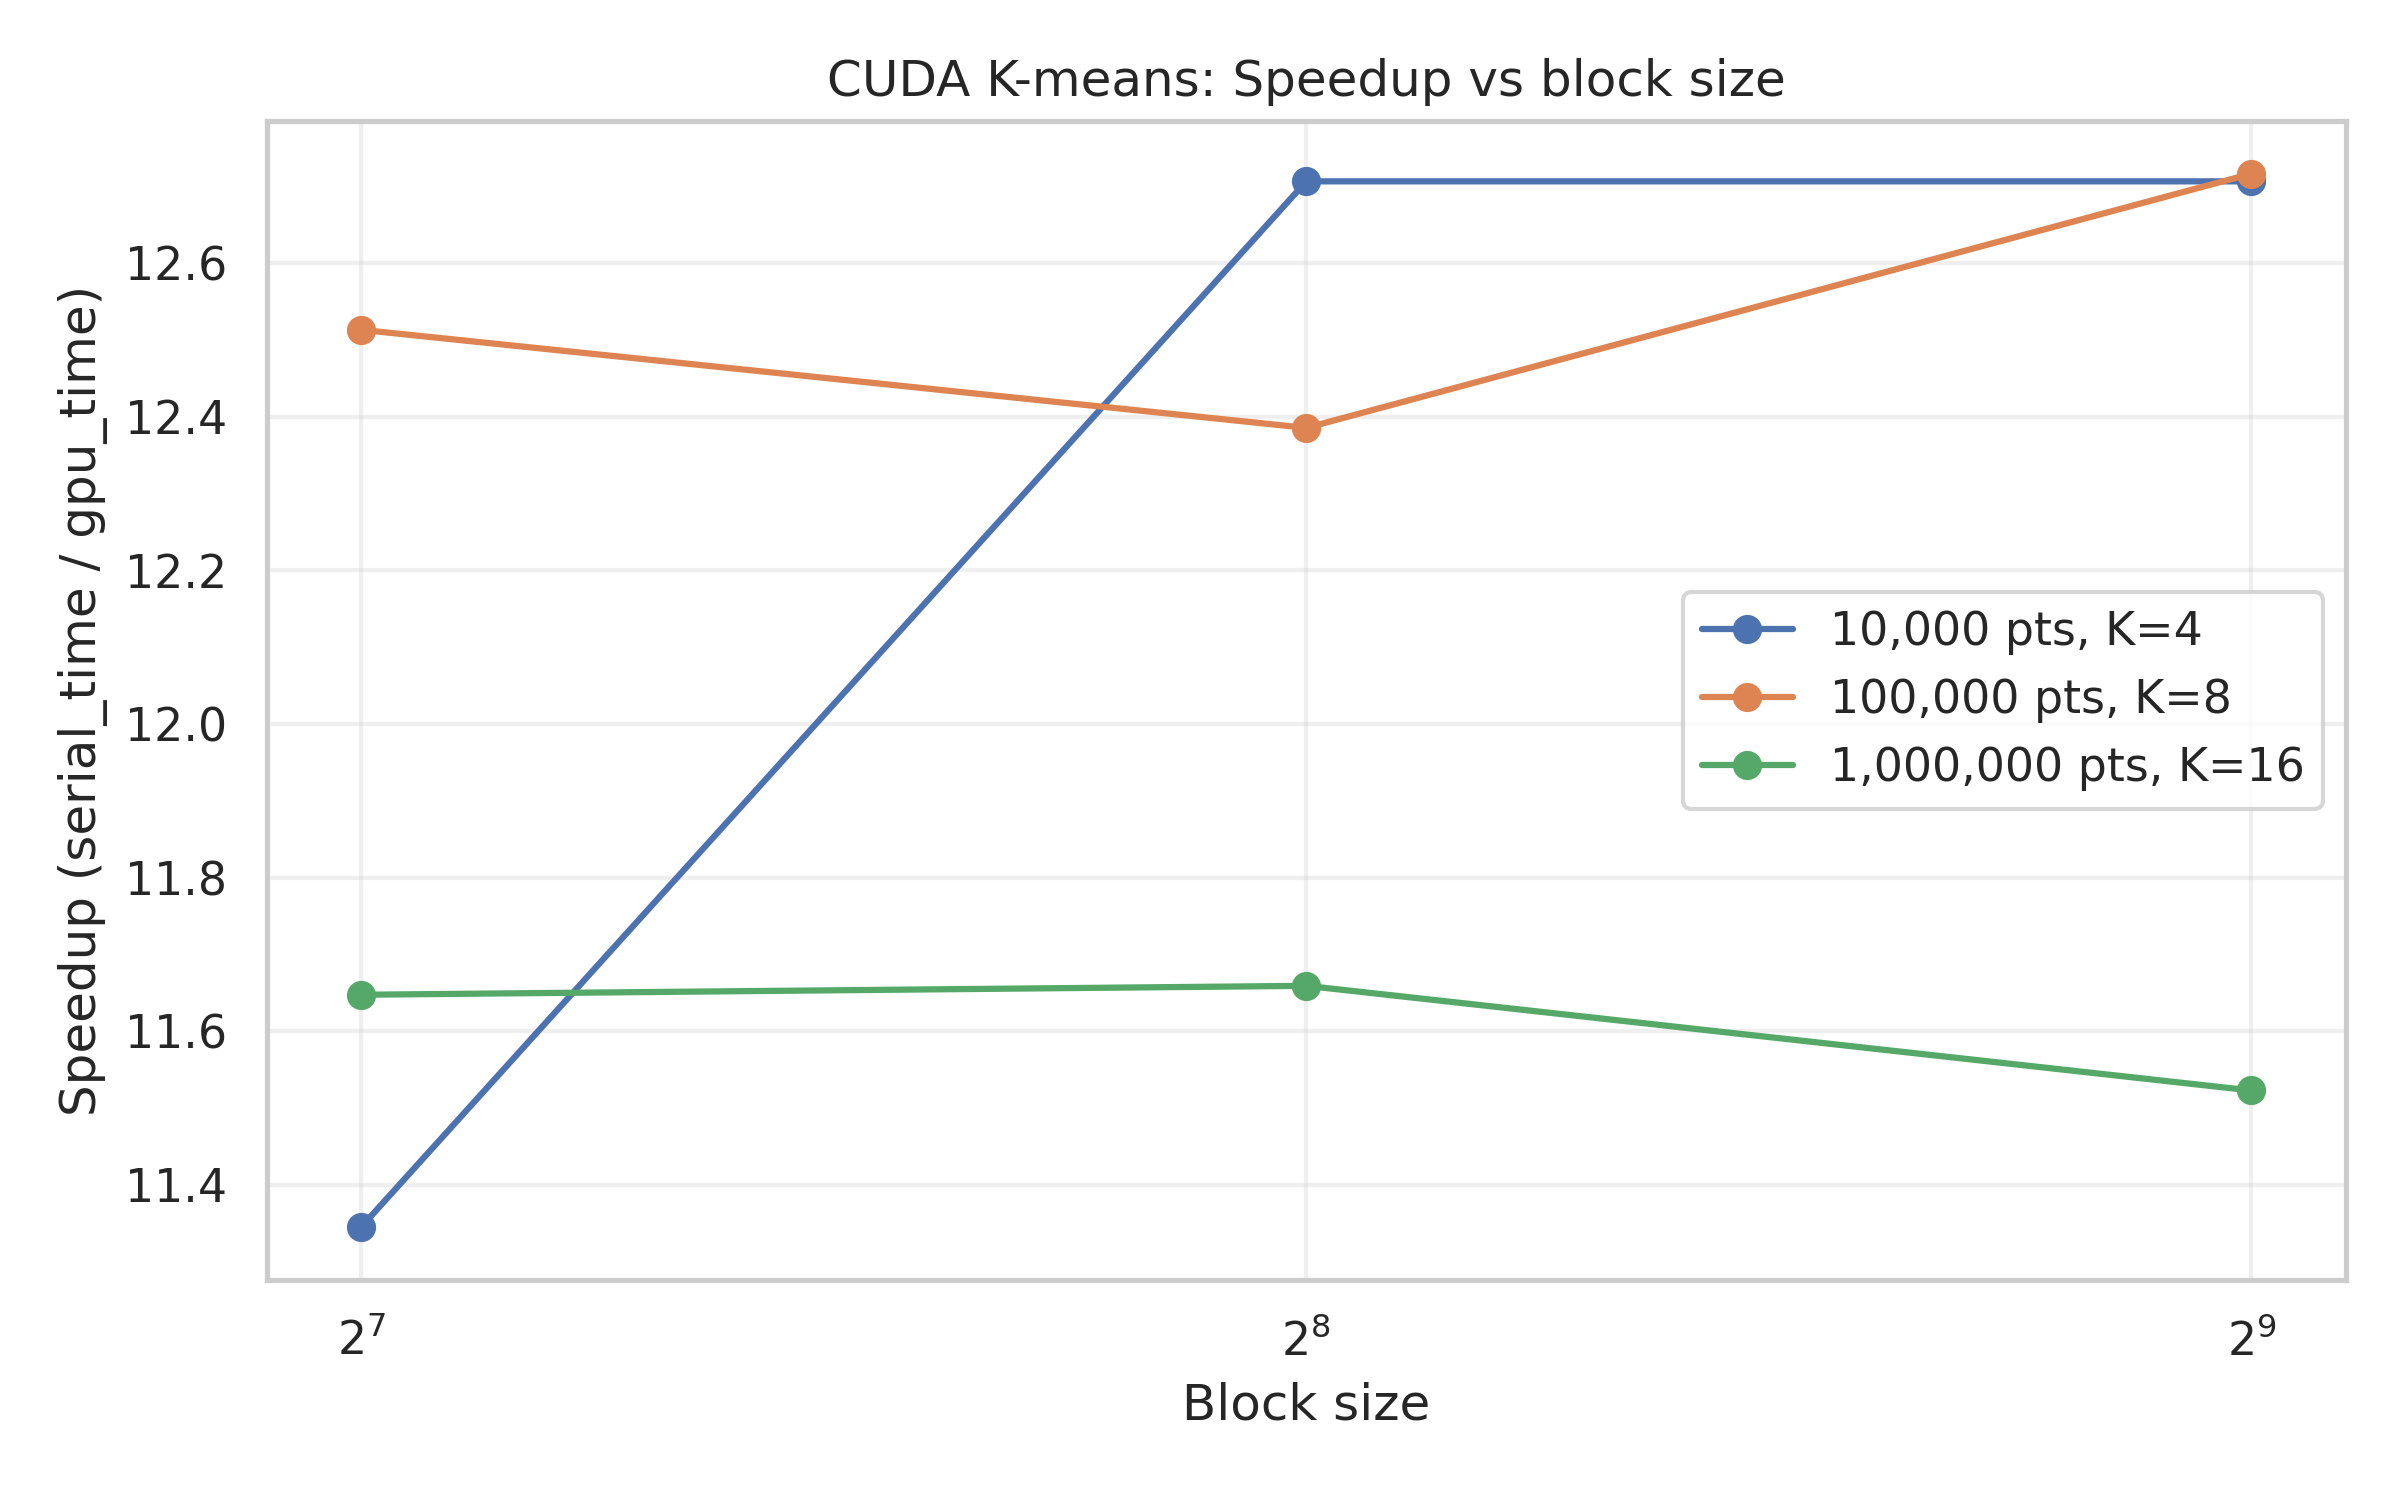
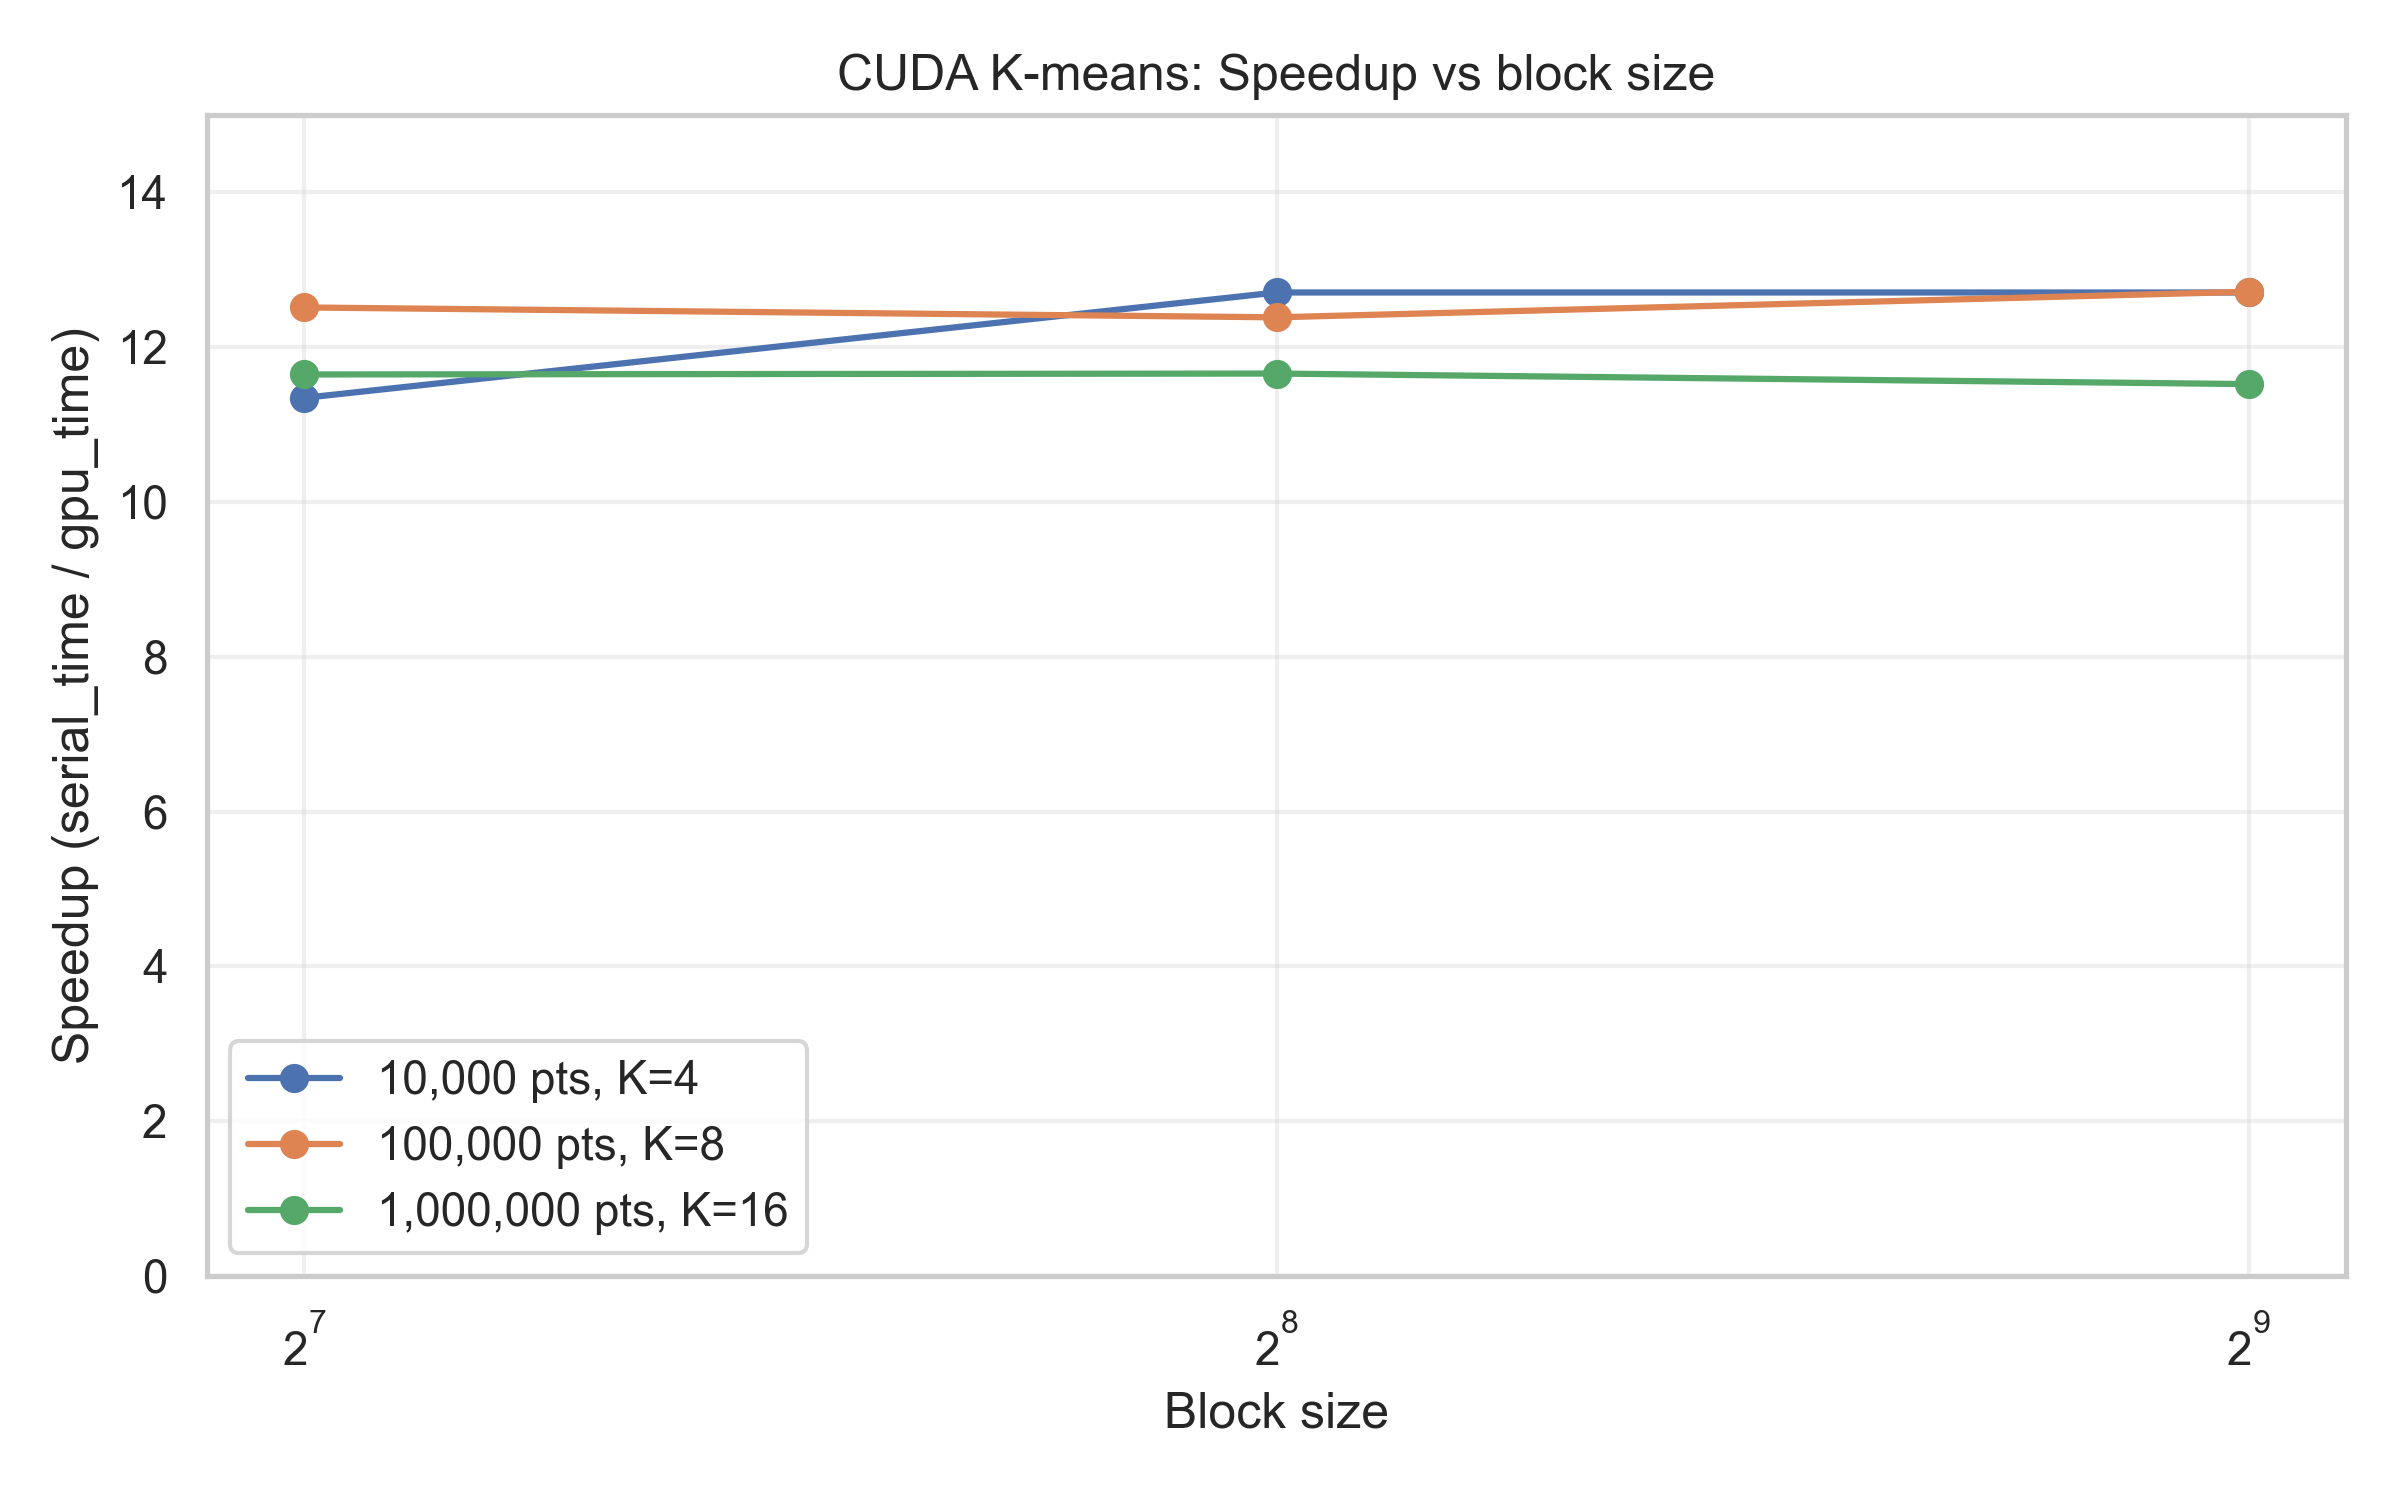
generates multiple analysis and plots

diff --git a/results/plot_results_cuda.py b/results/plot_results_cuda.py
@@ -49,6 +49,7 @@ def plot_speedup_by_block(df, out='results/figures/speedup_cuda.png'):
     plt.ylabel('Speedup (serial_time / gpu_time)')
     plt.title('CUDA K-means: Speedup vs block size')
     plt.legend()
+    plt.ylim(bottom=0, top=15)
     plt.xscale('log', base=2)
     plt.grid(True, alpha=0.3)
     plt.tight_layout()
@@ -69,14 +70,210 @@ def print_summary(df):
         else:
             print(f"{n:,} pts K={k}: only serial runs")
 
-if __name__ == "__main__":
-    path = 'results/results_cuda.csv'
-    if not Path(path).exists():
-        print(f"File {path} not found")
-    else:
-        df = load_and_prepare(path)
-        df = calculate_speedup(df)
-        df.to_csv('results/results_cuda_with_speedup.csv', index=False)
-        print_summary(df)
-        plot_speedup_by_block(df)
+def plot_comparative_results():
+    import matplotlib.pyplot as plt
+    import numpy as np
 
+    # --- 1. Dados extraídos dos seus logs (usando threadsPerBlock=256) ---
+
+    # Rótulos para o eixo X
+    labels = ['10k pts, K=4', '100k pts, K=8', '1M pts, K=16']
+
+    # Tempos de transferência Host-para-Device (H2D)
+    h2d_times = np.array([0.0, 0.0, 0.0])
+
+    # Tempos de execução do Kernel na GPU
+    kernel_times = np.array([0.1, 0.2, 1.4])
+
+    # Tempos de transferência Device-para-Host (D2H)
+    d2h_times = np.array([0.1, 0.8, 5.7])
+
+    # Calcula os tempos totais para adicionar rótulos no topo
+    totals = h2d_times + kernel_times + d2h_times
+
+    # Largura das barras
+    width = 0.5
+
+    # --- 2. Criação do Gráfico Empilhado ---
+    fig, ax = plt.subplots(figsize=(10, 7))
+
+    # A. A primeira barra (base) é o H2D
+    ax.bar(labels, h2d_times, width, label='Tempo H2D (ms)', color='#2c7bb6')
+
+    # B. A segunda barra (Kernel) começa onde a H2D terminou
+    ax.bar(labels, kernel_times, width, bottom=h2d_times,
+        label='Tempo Kernel (ms)', color='#abd9e9')
+
+    # C. A terceira barra (D2H) começa onde a Kernel terminou
+    ax.bar(labels, d2h_times, width, bottom=h2d_times + kernel_times,
+        label='Tempo D2H (ms)', color='#fdae61')
+
+    # --- 3. Formatação e Rótulos ---
+
+    # Títulos e rótulos dos eixos
+    ax.set_ylabel('Tempo Total (ms)')
+    ax.set_title('Breakdown do Tempo K-means (GPU) por DBK (threadPerBlock=256)', fontsize=16)
+
+    # Adiciona a legenda
+    ax.legend(loc='upper left')
+
+    # Adiciona grade para facilitar a leitura
+    ax.yaxis.grid(True, linestyle='--', alpha=0.7)
+
+    # Define o limite do eixo Y um pouco mais alto que o valor máximo
+    ax.set_ylim(0, np.max(totals) * 1.15)
+
+    # Adiciona rótulos de texto com o valor total no topo de cada barra
+    for i, total in enumerate(totals):
+        if total > 0: # Só adiciona rótulo se o tempo for maior que 0
+            ax.text(i, total + (np.max(totals) * 0.01), # Posição Y (um pouco acima da barra)
+                    f'{total:.1f} ms',                 # Texto do rótulo
+                    ha='center',                       # Alinhamento horizontal
+                    fontweight='bold')
+
+    # Melhora o layout para evitar cortes
+    plt.tight_layout()
+
+    # --- 4. Salvar e Mostrar o Gráfico ---
+    plt.savefig('results/figures/kmeans_breakdown_tempo_gpu.png')
+    plt.show()
+
+
+def format_n(n):
+        if n >= 1000000:
+            return f"{n // 1000000}M"
+        if n >= 1000:
+            return f"{n // 1000}k"
+        return str(n)
+
+def plot_comparative_results_speedup():
+    import pandas as pd
+    import matplotlib.pyplot as plt
+    import numpy as np
+
+    # --- 1. Carregar e Preparar os Dados ---
+
+    try:
+        # Carrega os dados de OpenMP e Serial
+        df_omp_serial = pd.read_csv('results/results_with_speedup.csv')
+        
+        # Carrega os dados de CUDA
+        df_cuda = pd.read_csv('results/results_cuda_with_speedup.csv')
+    except FileNotFoundError as e:
+        print(f"Erro: Não foi possível encontrar o arquivo {e.filename}.")
+        print("Certifique-se que os arquivos 'results_with_speedup.csv' e 'results_cuda_with_speedup.csv' estão no mesmo diretório.")
+        exit()
+
+    # --- 2. CORREÇÃO: Criar a coluna 'Implementation' ---
+
+    # Em df_omp_serial, use 'serial_omp' para definir 'Serial' ou 'OpenMP'
+    df_omp_serial['Implementation'] = np.where(df_omp_serial['serial_omp'] == 1, 'Serial', 'OpenMP') # <<< NOVO
+
+    # Em df_cuda, todas as linhas são 'CUDA'
+    df_cuda['Implementation'] = 'CUDA' # <<< NOVO
+
+    # --- 3. CORREÇÃO: Padronizar nomes das colunas ---
+    # Renomeia 'n_pontos' -> 'N' e 'n_centroids' -> 'K' para ambos os DataFrames
+    df_omp_serial.rename(columns={'n_pontos': 'N', 'n_centroids': 'K'}, inplace=True) # <<< NOVO
+    df_cuda.rename(columns={'n_pontos': 'N', 'n_centroids': 'K'}, inplace=True)       # <<< NOVO
+
+
+    # --- 4. Juntar e Filtrar ---
+
+    # Agora podemos juntar os DataFrames
+    df_all = pd.concat([df_omp_serial, df_cuda], ignore_index=True)
+
+    # Filtra apenas as implementações principais que queremos comparar
+    implementations_to_plot = ['Serial', 'OpenMP', 'CUDA']
+    df_plot = df_all[df_all['Implementation'].isin(implementations_to_plot)]
+
+    # --- 5. Criar Rótulos para o Eixo X ---
+
+    # Função para formatar N de forma legível (ex: 10000 -> 10k, 1000000 -> 1M)
+    def format_n(n):
+        if n >= 1000000:
+            return f"{n // 1000000}M"
+        if n >= 1000:
+            return f"{n // 1000}k"
+        return str(n)
+
+    # Cria uma coluna 'Config' para usar como rótulo no eixo X
+    # Adiciona .copy() para evitar o SettingWithCopyWarning
+    df_plot = df_plot.copy()
+    df_plot['Config'] = df_plot['N'].apply(format_n) + ' pts, K=' + df_plot['K'].astype(str)
+
+    # Garante que os dados estejam ordenados por N (tamanho do problema)
+    df_plot = df_plot.sort_values(by='N')
+
+    # --- 6. Configuração do Gráfico de Barras Agrupado ---
+
+    # Pega os rótulos únicos de configuração (ex: "10k...", "100k...", "1M...")
+    configs = df_plot['Config'].unique()
+    x_indexes = np.arange(len(configs))  # Posições no eixo X (0, 1, 2)
+
+    # Define a largura de cada barra individual
+    bar_width = 0.25
+    n_impls = len(implementations_to_plot)
+
+    # Cores para consistência
+    colors = {
+        'Serial': '#d73027', # Vermelho
+        'OpenMP': '#fee090', # Amarelo/Laranja
+        'CUDA': '#4575b4'    # Azul
+    }
+
+    fig, ax = plt.subplots(figsize=(12, 7))
+
+    # --- 7. Plotar as Barras ---
+
+    # Itera sobre cada implementação para plotar suas barras em grupo
+    for i, impl in enumerate(implementations_to_plot):
+        # Calcula o "offset" da barra para que fiquem lado a lado
+        offset = (i - n_impls / 2 + 0.5) * bar_width
+        positions = x_indexes + offset
+        
+        # Pega os dados de speedup para a implementação atual
+        # Precisamos agrupar e pegar a média caso haja múltiplas entradas (ex: CUDA com 128, 256, 512)
+        speedups = df_plot[df_plot['Implementation'] == impl].groupby('Config', sort=False)['Speedup'].mean().values
+        
+        # Plota a barra
+        ax.bar(positions, speedups, bar_width, label=impl, color=colors.get(impl))
+
+    # --- 8. Formatação Final do Gráfico ---
+
+    # Títulos e Rótulos
+    ax.set_ylabel('Speedup (Base: Tempo Serial)')
+    ax.set_title('Comparativo de Speedup: Serial vs. OpenMP vs. CUDA', fontsize=16)
+
+    # Configura os rótulos do eixo X para ficarem no centro do grupo de barras
+    ax.set_xticks(x_indexes)
+    ax.set_xticklabels(configs)
+
+    # Adiciona uma linha horizontal em y=1.0 para marcar a base (Serial)
+    ax.axhline(y=1.0, color='gray', linestyle='--', linewidth=1, label='Baseline Serial (Speedup=1)')
+
+    # Adiciona grade e legenda
+    ax.yaxis.grid(True, linestyle='--', alpha=0.7)
+    ax.legend(title="Implementação")
+
+    # Otimiza o layout e salva a imagem
+    plt.tight_layout()
+    plt.savefig('comparativo_speedup_total.png')
+
+    print("Gráfico 'comparativo_speedup_total.png' gerado com sucesso!")
+
+    # Mostra o gráfico
+    plt.show()
+
+if __name__ == "__main__":
+    # path = 'results/results_cuda.csv'
+    # if not Path(path).exists():
+    #     print(f"File {path} not found")
+    # else:
+    #     df = load_and_prepare(path)
+    #     df = calculate_speedup(df)
+    #     df.to_csv('results/results_cuda_with_speedup.csv', index=False)
+    #     print_summary(df)
+    #     plot_speedup_by_block(df)
+
+    plot_comparative_results_speedup()

diff --git a/results/plot_speedup_results.py b/results/plot_speedup_results.py
@@ -1,0 +1,128 @@
+import pandas as pd
+import matplotlib.pyplot as plt
+import numpy as np
+import io # Para ler o CSV a partir de um texto
+
+# --- 1. Dados CSV fornecidos pelo usuário ---
+# Coloquei os dados do CSV que você colou em uma string.
+# Isso evita problemas de 'Arquivo não encontrado'
+csv_data = """n_pontos,n_centroids,iteracoes,tempo,serial_cuda,block_size,speedup
+10000,4,3,8.4,0,128,11.345238095238095
+10000,4,3,7.5,0,256,12.706666666666667
+10000,4,3,7.5,0,512,12.706666666666667
+100000,8,3,1319.6,0,128,12.51333737496211
+100000,8,3,1333.2,0,256,12.385688568856883
+100000,8,3,1298.5,0,512,12.71667308432807
+1000000,16,3,253719.6,0,128,11.647597584104656
+1000000,16,3,253466.8,0,256,11.65921454012912
+1000000,16,3,256464.2,0,512,11.522948622068888
+10000,4,3,95.3,1,1,1.0
+100000,8,3,16512.6,1,1,1.0
+1000000,16,3,2955223.8,1,1,1.0
+10000,4,3,11.7,2,32,8.145299145299145
+100000,8,3,1355.1,2,32,12.185521363736994
+1000000,16,3,275368.1,2,32,10.731903223358117
+"""
+
+# --- 2. Carregar e Transformar os Dados ---
+
+# Ler os dados da string
+try:
+    df = pd.read_csv(io.StringIO(csv_data))
+except Exception as e:
+    print(f"Erro ao ler os dados do CSV: {e}")
+    exit()
+
+# Criar a coluna 'Implementation' baseada na sua codificação
+# 0 = CUDA, 1 = Serial, 2 = OpenMP
+impl_map = {
+    0: 'CUDA',
+    1: 'Serial',
+    2: 'OpenMP (32 th)' # Usei um nome mais descritivo
+}
+df['Implementation'] = df['serial_cuda'].map(impl_map)
+
+# Função para formatar N (10000 -> 10k, 1000000 -> 1M)
+def format_n(n):
+    if n >= 1000000: return f"{n // 1000000}M"
+    if n >= 1000: return f"{n // 1000}k"
+    return str(n)
+
+# Criar a coluna 'Config' para o eixo X
+df['Config'] = df['n_pontos'].apply(format_n) + ' pts, K=' + df['n_centroids'].astype(str)
+
+# --- 3. Filtrar os Dados para Plotagem ---
+
+# Queremos:
+# 1. Todas as entradas 'Serial'
+is_serial = (df['Implementation'] == 'Serial')
+
+# 2. Todas as entradas 'OpenMP (32 th)'
+is_omp = (df['Implementation'] == 'OpenMP (32 th)')
+
+# 3. APENAS as entradas 'CUDA' com block_size == 256 (como solicitado)
+is_cuda_256 = (df['Implementation'] == 'CUDA') & (df['block_size'] == 256)
+
+# Combinar os filtros
+df_plot = df[is_serial | is_omp | is_cuda_256].copy()
+
+# --- 4. Criar Tabela Pivot para Plotagem ---
+
+# O 'pivot_table' é perfeito para agrupar
+# Ele criará uma tabela com 'Config' nas linhas e 'Implementation' nas colunas
+# Os valores que faltam (OMP para 100k e 1M no seu CSV) serão 'NaN', 
+# que o matplotlib ignora automaticamente
+df_pivot = df_plot.pivot_table(
+    index='Config',
+    columns='Implementation',
+    values='speedup'
+)
+
+# Reordenar as colunas para uma ordem lógica no gráfico
+# (Note que seu CSV só tem OMP para 10k, então só aparecerá lá)
+plot_order = ['Serial', 'OpenMP (32 th)', 'CUDA']
+df_pivot = df_pivot.reindex(columns=plot_order)
+
+# Ordenar o índice (Config) pela ordem de N (10k, 100k, 1M)
+# Extrai o número antes de 'k' ou 'M' e converte para int
+sort_key = lambda x: int(''.join(filter(str.isdigit, x.split(' ')[0])))
+df_pivot = df_pivot.reindex(sorted(df_pivot.index, key=sort_key))
+
+# --- 5. Plotar o Gráfico de Barras Agrupado ---
+
+print("Dados processados para plotagem (Speedup):")
+print(df_pivot)
+print("\nGerando gráfico...")
+
+fig, ax = plt.subplots(figsize=(12, 7))
+
+# O pandas faz o gráfico agrupado automaticamente com 'plot(kind='bar')'
+df_pivot.plot(
+    kind='bar',
+    ax=ax,
+    width=0.8,
+    color={'Serial': '#d73027', 'OpenMP (32 th)': '#fee090', 'CUDA': '#4575b4'}
+)
+
+# --- 6. Formatação Final ---
+
+ax.set_title('Comparativo de Speedup (CUDA com 256 th/bloco)', fontsize=16)
+ax.set_ylabel('Speedup (Base: Tempo Serial)')
+ax.set_xlabel('Configuração (N pontos, K clusters)')
+
+# Rotacionar rótulos do eixo X para não sobrepor
+plt.xticks(rotation=0)
+
+# Adicionar linha de base
+ax.axhline(y=1.0, color='gray', linestyle='--', linewidth=1, label='Baseline Serial (Speedup=1)')
+
+# Adicionar grade e legenda
+ax.yaxis.grid(True, linestyle='--', alpha=0.7)
+ax.legend(title="Implementação")
+
+plt.tight_layout()
+plt.savefig('comparativo_speedup_filtrado.png')
+
+print("Gráfico 'comparativo_speedup_filtrado.png' gerado com sucesso!")
+
+plt.show()
